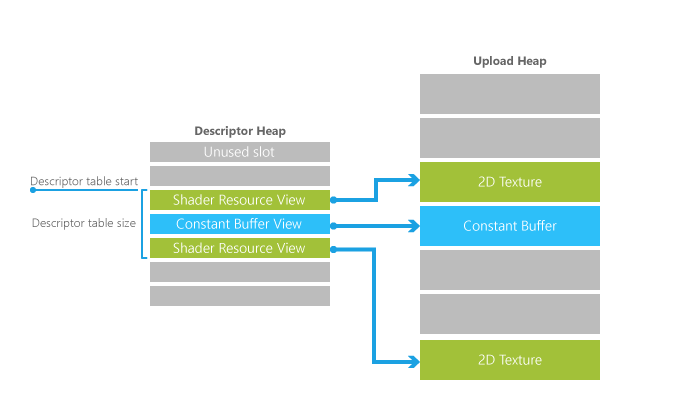
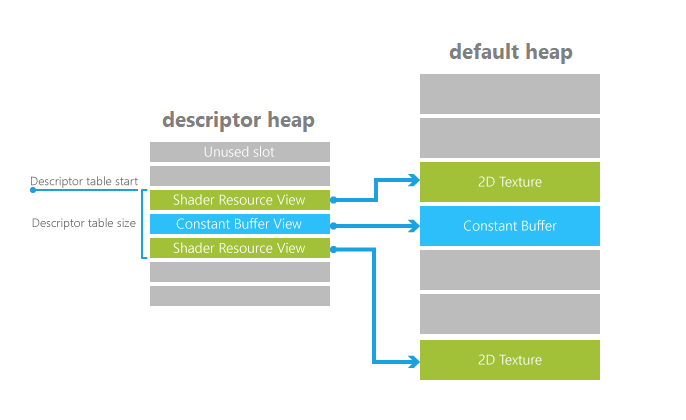
correction to heap type (#1116)

Changed region(s): [[0.2143, 0.2476, 0.4592, 0.3405], [0.6429, 0.0929, 0.8571, 0.1548]]

diff --git a/desktop-src/direct3d12/descriptor-tables-overview.md b/desktop-src/direct3d12/descriptor-tables-overview.md
@@ -9,10 +9,7 @@ ms.date: 05/31/2018
 
 # Descriptor Tables Overview
 
-Each descriptor table stores descriptors of one or more types - SRVs, UAVe, CBVs, and Samplers. A descriptor table is not an allocation of memory; it is simply an offset and length into a descriptor heap.
-
--   [Referencing descriptor tables](#referencing-descriptor-tables)
--   [Related topics](#related-topics)
+Each descriptor table stores descriptors of one or more types&mdash;SRVs, UAVe, CBVs, and samplers. A descriptor table isn't an allocation of memory; it's simply an offset and length into a descriptor heap.
 
 ## Referencing descriptor tables
 
@@ -22,21 +19,10 @@ A descriptor table is actually just a sub-range of a descriptor heap. Descriptor
 
 It is certainly possible for an app to define very large descriptor tables when its shaders want the freedom to select from a vast set of available descriptors (often referencing textures) on the fly (perhaps driven by material data).
 
-The Root Signature references the descriptor table entry with a reference to the heap, the start location of the table (an offset from the start of the heap), and the length (in entries) of the table. The image below shows these concepts: the descriptor table pointers from the Root Signature and the descriptors within the descriptor heap referencing the full texture or buffer data in an upload heap.
+The Root Signature references the descriptor table entry with a reference to the heap, the start location of the table (an offset from the start of the heap), and the length (in entries) of the table. The image below shows these concepts: the descriptor table pointers from the Root Signature and the descriptors within the descriptor heap referencing the full texture or buffer data in a heap (in the case of a texture, the default heap).
 
 ![descriptor tables](images/descriptor-table.png)
 
 ## Related topics
 
-<dl> <dt>
-
-[Descriptor Tables](descriptor-tables.md)
-</dt> </dl>
-
- 
-
- 
-
-
-
-
+* [Descriptor Tables](descriptor-tables.md)
